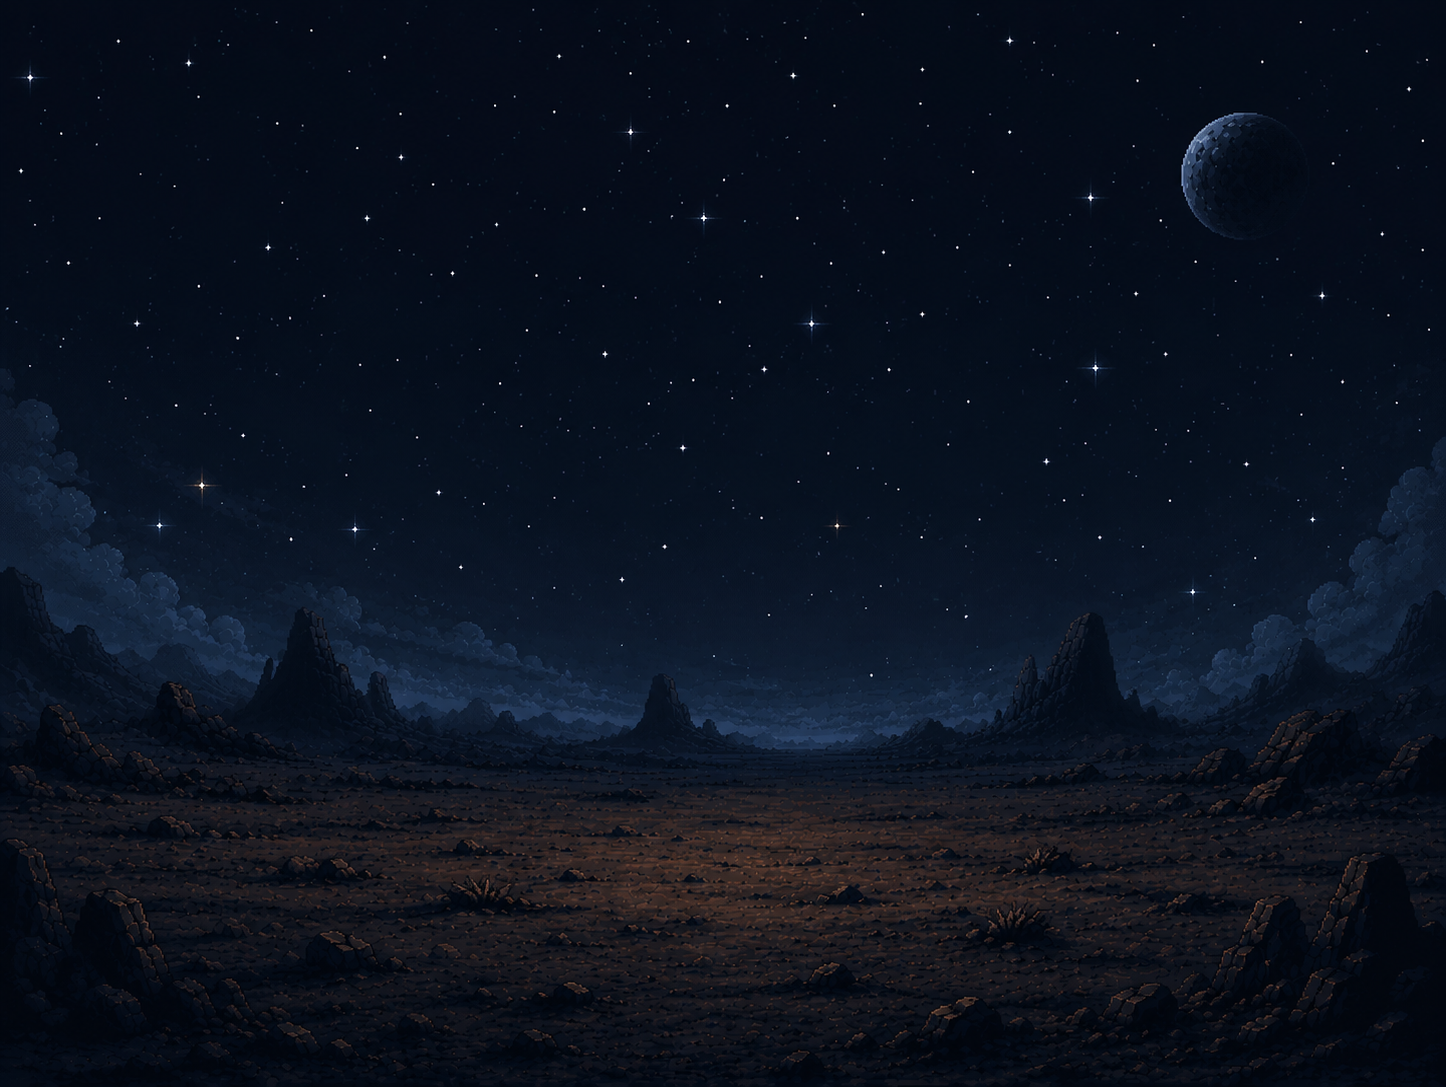
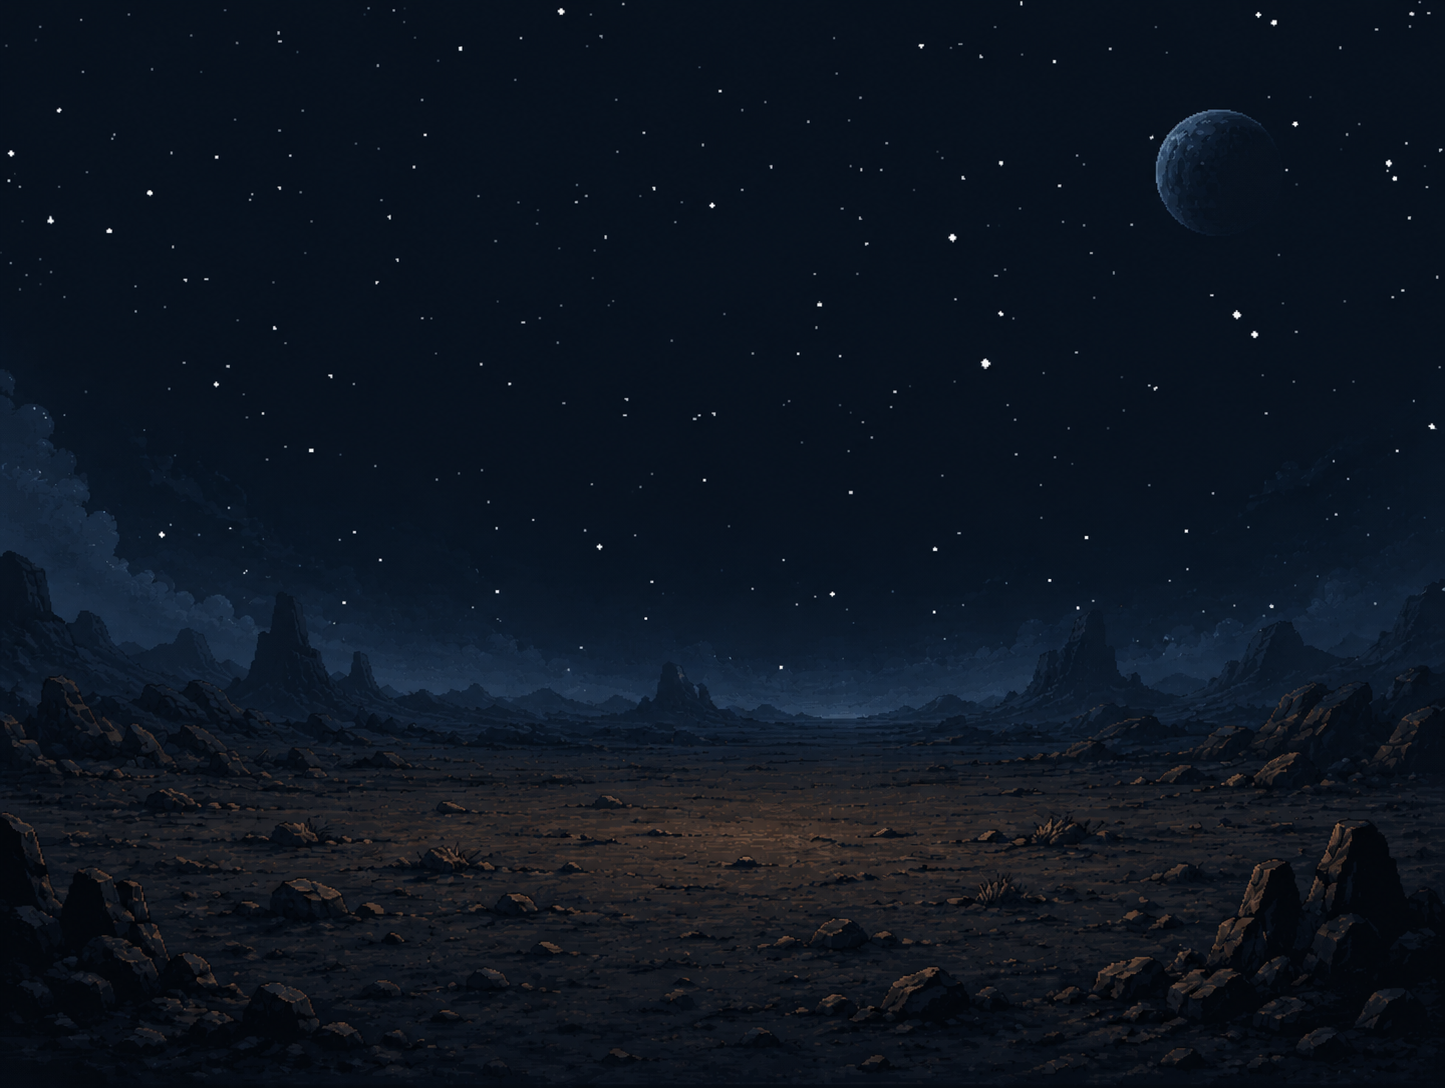
refactor: update CompanionEvent scene with new background and blinking stars

diff --git a/src/game/scenes/CompanionEvent.ts b/src/game/scenes/CompanionEvent.ts
@@ -1,12 +1,9 @@
 import { Scene } from 'phaser';
 import { GameState } from '../systems/GameState';
 import { AudioManager } from '../systems/AudioManager';
-import { SpaceBackground } from '../objects/SpaceBackground';
 import { createDogSprite } from '../objects/Dog';
 
 export class CompanionEvent extends Scene {
-    private space!: SpaceBackground;
-
     constructor() {
         super('CompanionEvent');
     }
@@ -19,41 +16,32 @@ export class CompanionEvent extends Scene {
         GameState.applyGrayscale(this);
         AudioManager.playEvent(this, 'companion_found');
 
-        this.space = new SpaceBackground(this);
+        const bg = this.add.image(width * 0.5, height * 0.5, 'bg_companion_event').setDepth(-100);
+        bg.setDisplaySize(width, height);
 
-        // Ground — barren rocky surface
-        const ground = this.add.graphics();
-        ground.fillStyle(0x1a1a12, 1);
-        ground.fillRect(0, height * 0.65, width, height * 0.35);
-        ground.fillStyle(0x222218, 1);
-        ground.fillCircle(width * 0.3, height * 0.65, 40);
-        ground.fillCircle(width * 0.7, height * 0.65, 50);
-
-        // Wrecked ship — broken hull
-        const wreck = this.add.graphics();
-        // Main hull (tilted, broken)
-        wreck.fillStyle(0x555555, 1);
-        wreck.fillRect(width * 0.35, height * 0.45, 180, 30);
-        // Broken nose
-        wreck.fillStyle(0x444444, 1);
-        wreck.fillTriangle(
-            width * 0.35 + 180, height * 0.45,
-            width * 0.35 + 180, height * 0.45 + 30,
-            width * 0.35 + 210, height * 0.45 + 25
-        );
-        // Damage marks
-        wreck.fillStyle(0x333333, 1);
-        wreck.fillRect(width * 0.35 + 40, height * 0.45 + 5, 15, 20);
-        wreck.fillRect(width * 0.35 + 80, height * 0.45 + 8, 10, 15);
-        // Debris on ground
-        wreck.fillStyle(0x444444, 0.6);
-        wreck.fillRect(width * 0.3, height * 0.63, 20, 8);
-        wreck.fillRect(width * 0.55, height * 0.62, 12, 10);
-        wreck.fillRect(width * 0.65, height * 0.64, 15, 6);
+        // Twinkling stars overlay
+        for (let i = 0; i < 60; i++) {
+            const star = this.add.circle(
+                Phaser.Math.Between(0, width),
+                Phaser.Math.Between(0, height * 0.6),
+                Phaser.Math.Between(1, 4),
+                0xffffff,
+                Phaser.Math.FloatBetween(0.3, 0.9),
+            ).setDepth(-50);
+            this.tweens.add({
+                targets: star,
+                alpha: { from: star.alpha, to: Phaser.Math.FloatBetween(0.05, 0.3) },
+                duration: Phaser.Math.Between(800, 3000),
+                yoyo: true,
+                repeat: -1,
+                delay: Phaser.Math.Between(0, 2000),
+                ease: 'Sine.easeInOut',
+            });
+        }
 
         // Dog — small figure near the wreck
         const dogX = width * 0.55;
-        const dogGroundY = height * 0.66;
+        const dogGroundY = height * 0.66 + 30;
         createDogSprite(this, dogX, dogGroundY);
 
         // --- Story text sequence ---
@@ -121,7 +109,5 @@ export class CompanionEvent extends Scene {
         this.time.delayedCall(1000, showNextLine);
     }
 
-    update(_time: number, delta: number) {
-        this.space.update(delta);
-    }
+    update() {}
 }

diff --git a/src/game/objects/ResourceBars.ts b/src/game/objects/ResourceBars.ts
@@ -46,7 +46,7 @@ export function drawResourceBars(scene: Scene, state: ReturnType<typeof GameStat
         fontFamily: titleFont,
         fontSize: px(57),
         color: '#fafaff',
-    }).setScale(0.5, 0.5);
+    }).setScale(0.5, 0.5));
 
     const headerLine = scene.add.graphics();
     headerLine.lineStyle(1, 0x424a56, 0.75);

diff --git a/src/game/scenes/Preloader.ts b/src/game/scenes/Preloader.ts
@@ -70,6 +70,7 @@ export class Preloader extends Scene {
         this.load.image("bg_snow", "planetbgs/snow.png");
         this.load.image("bg_main", "sceens/main.png");
         this.load.image("bg_kitchen", "sceens/kitchen.png");
+        this.load.image("bg_companion_event", "sceens/dogMeeting/img1.png");
 
         // Terrain tile atlas (Kenney-style XML)
         this.load.atlasXML(